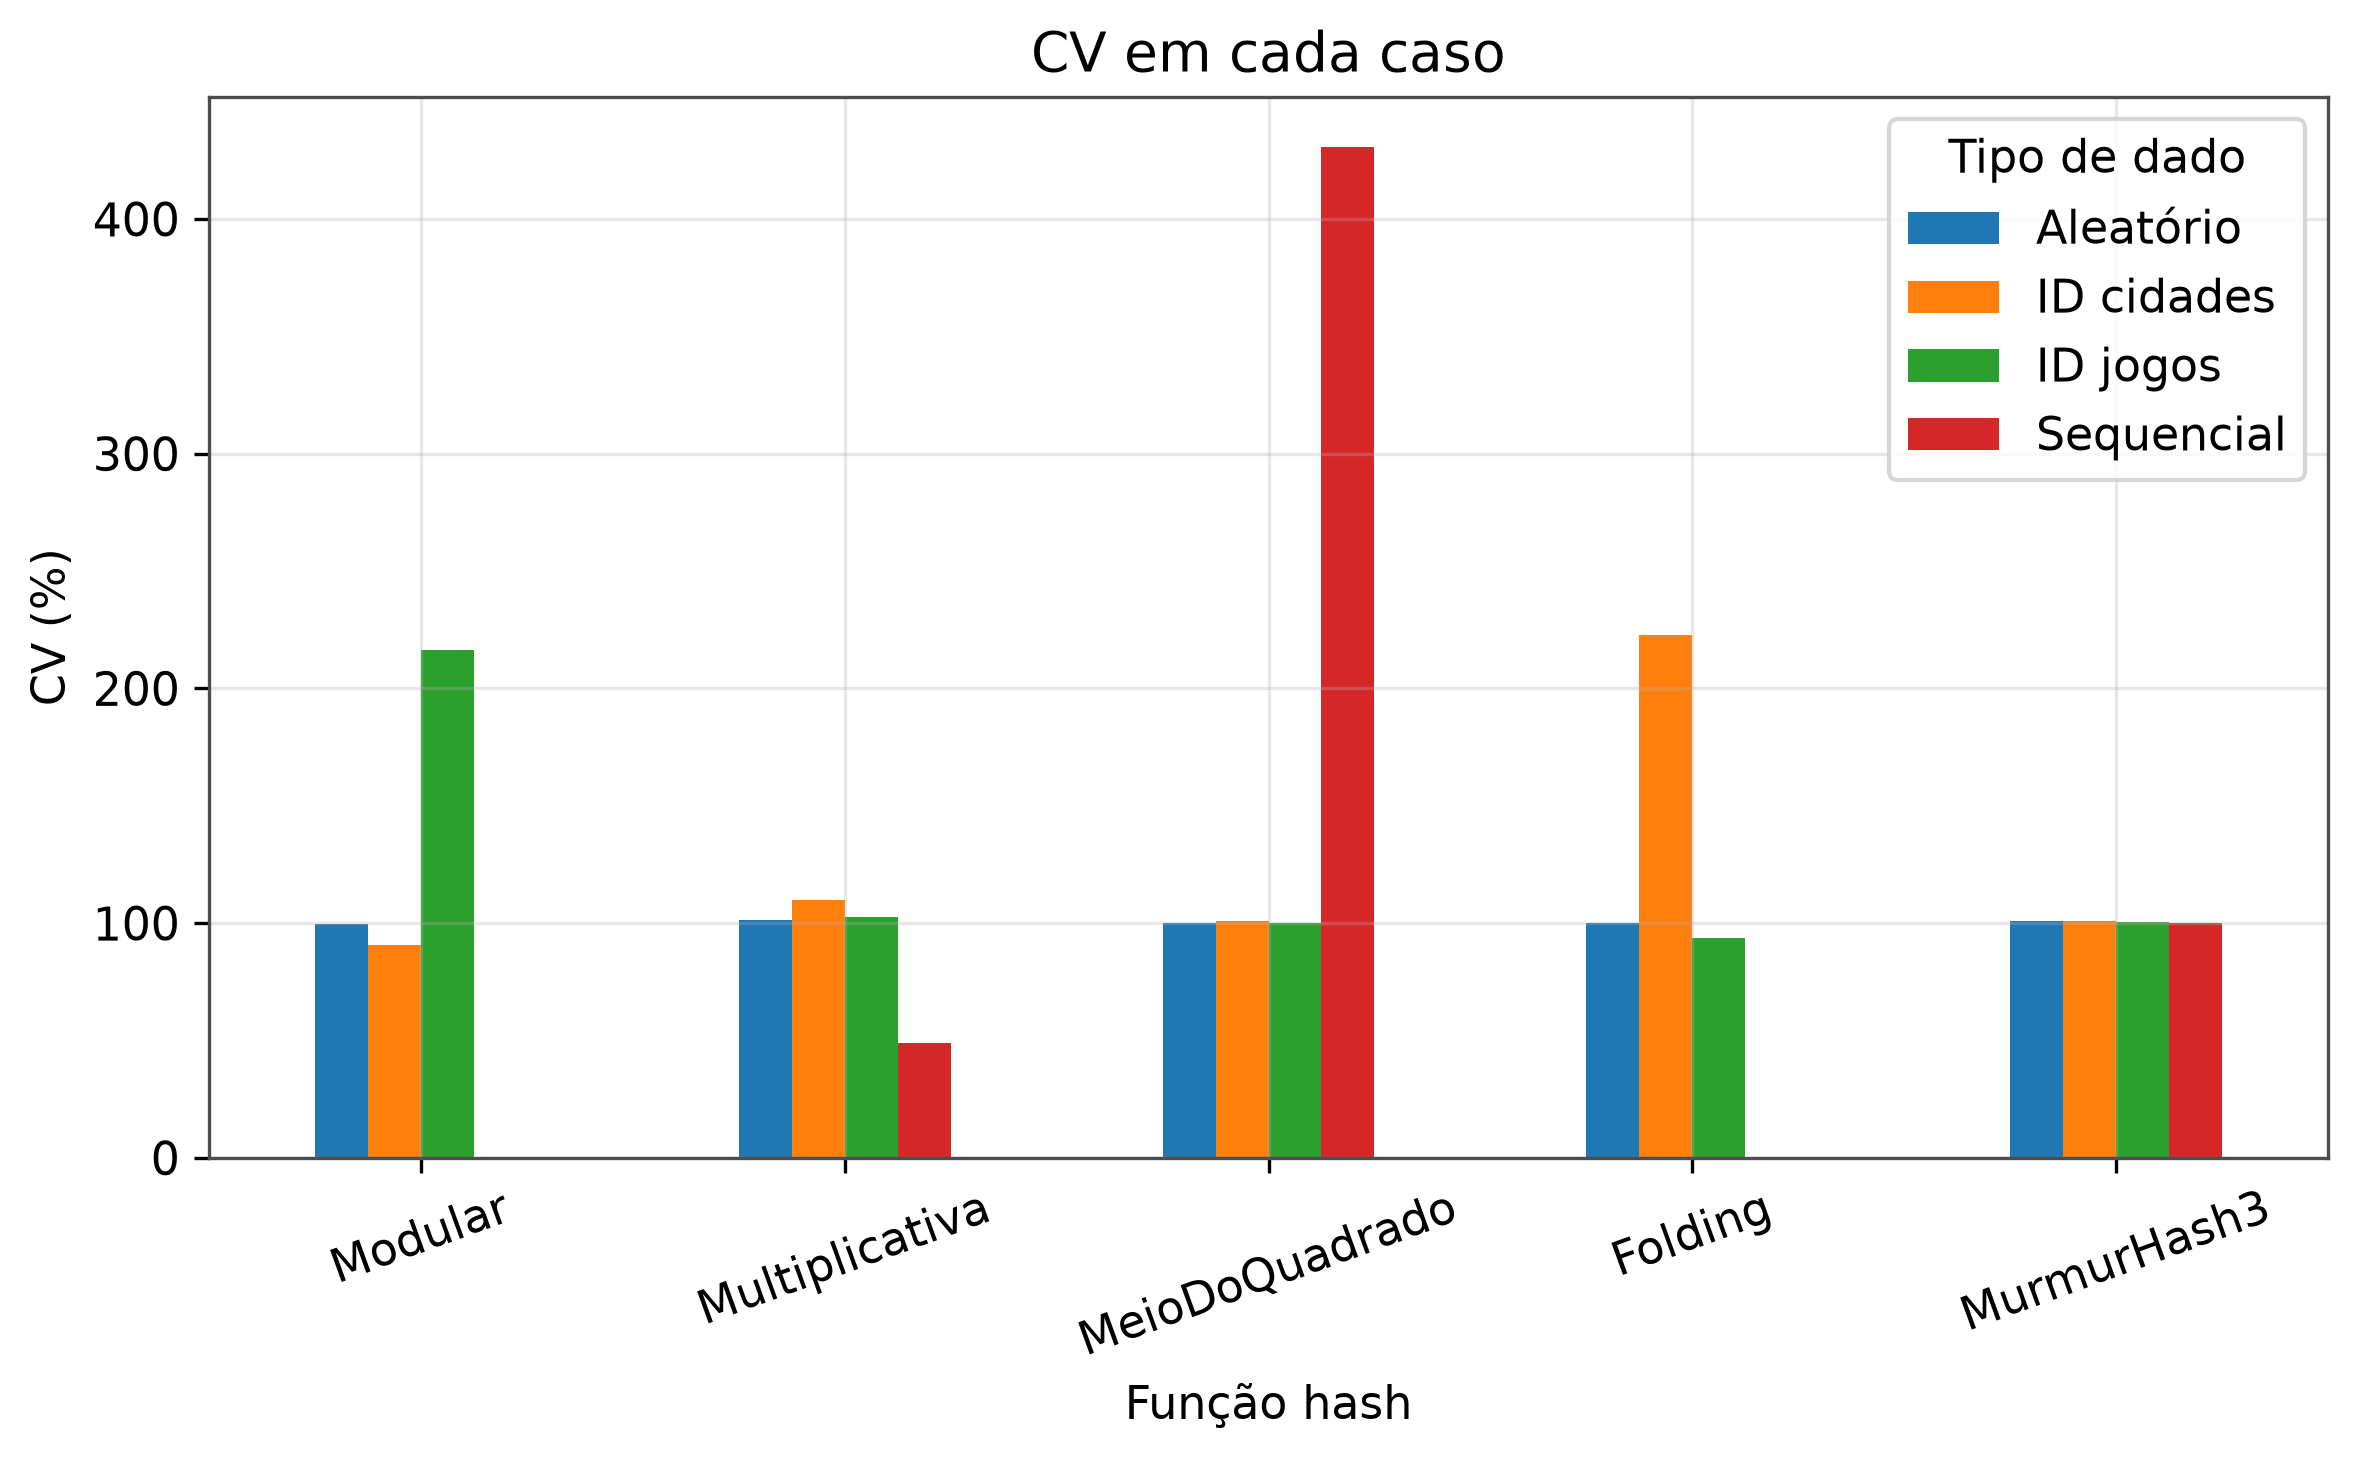
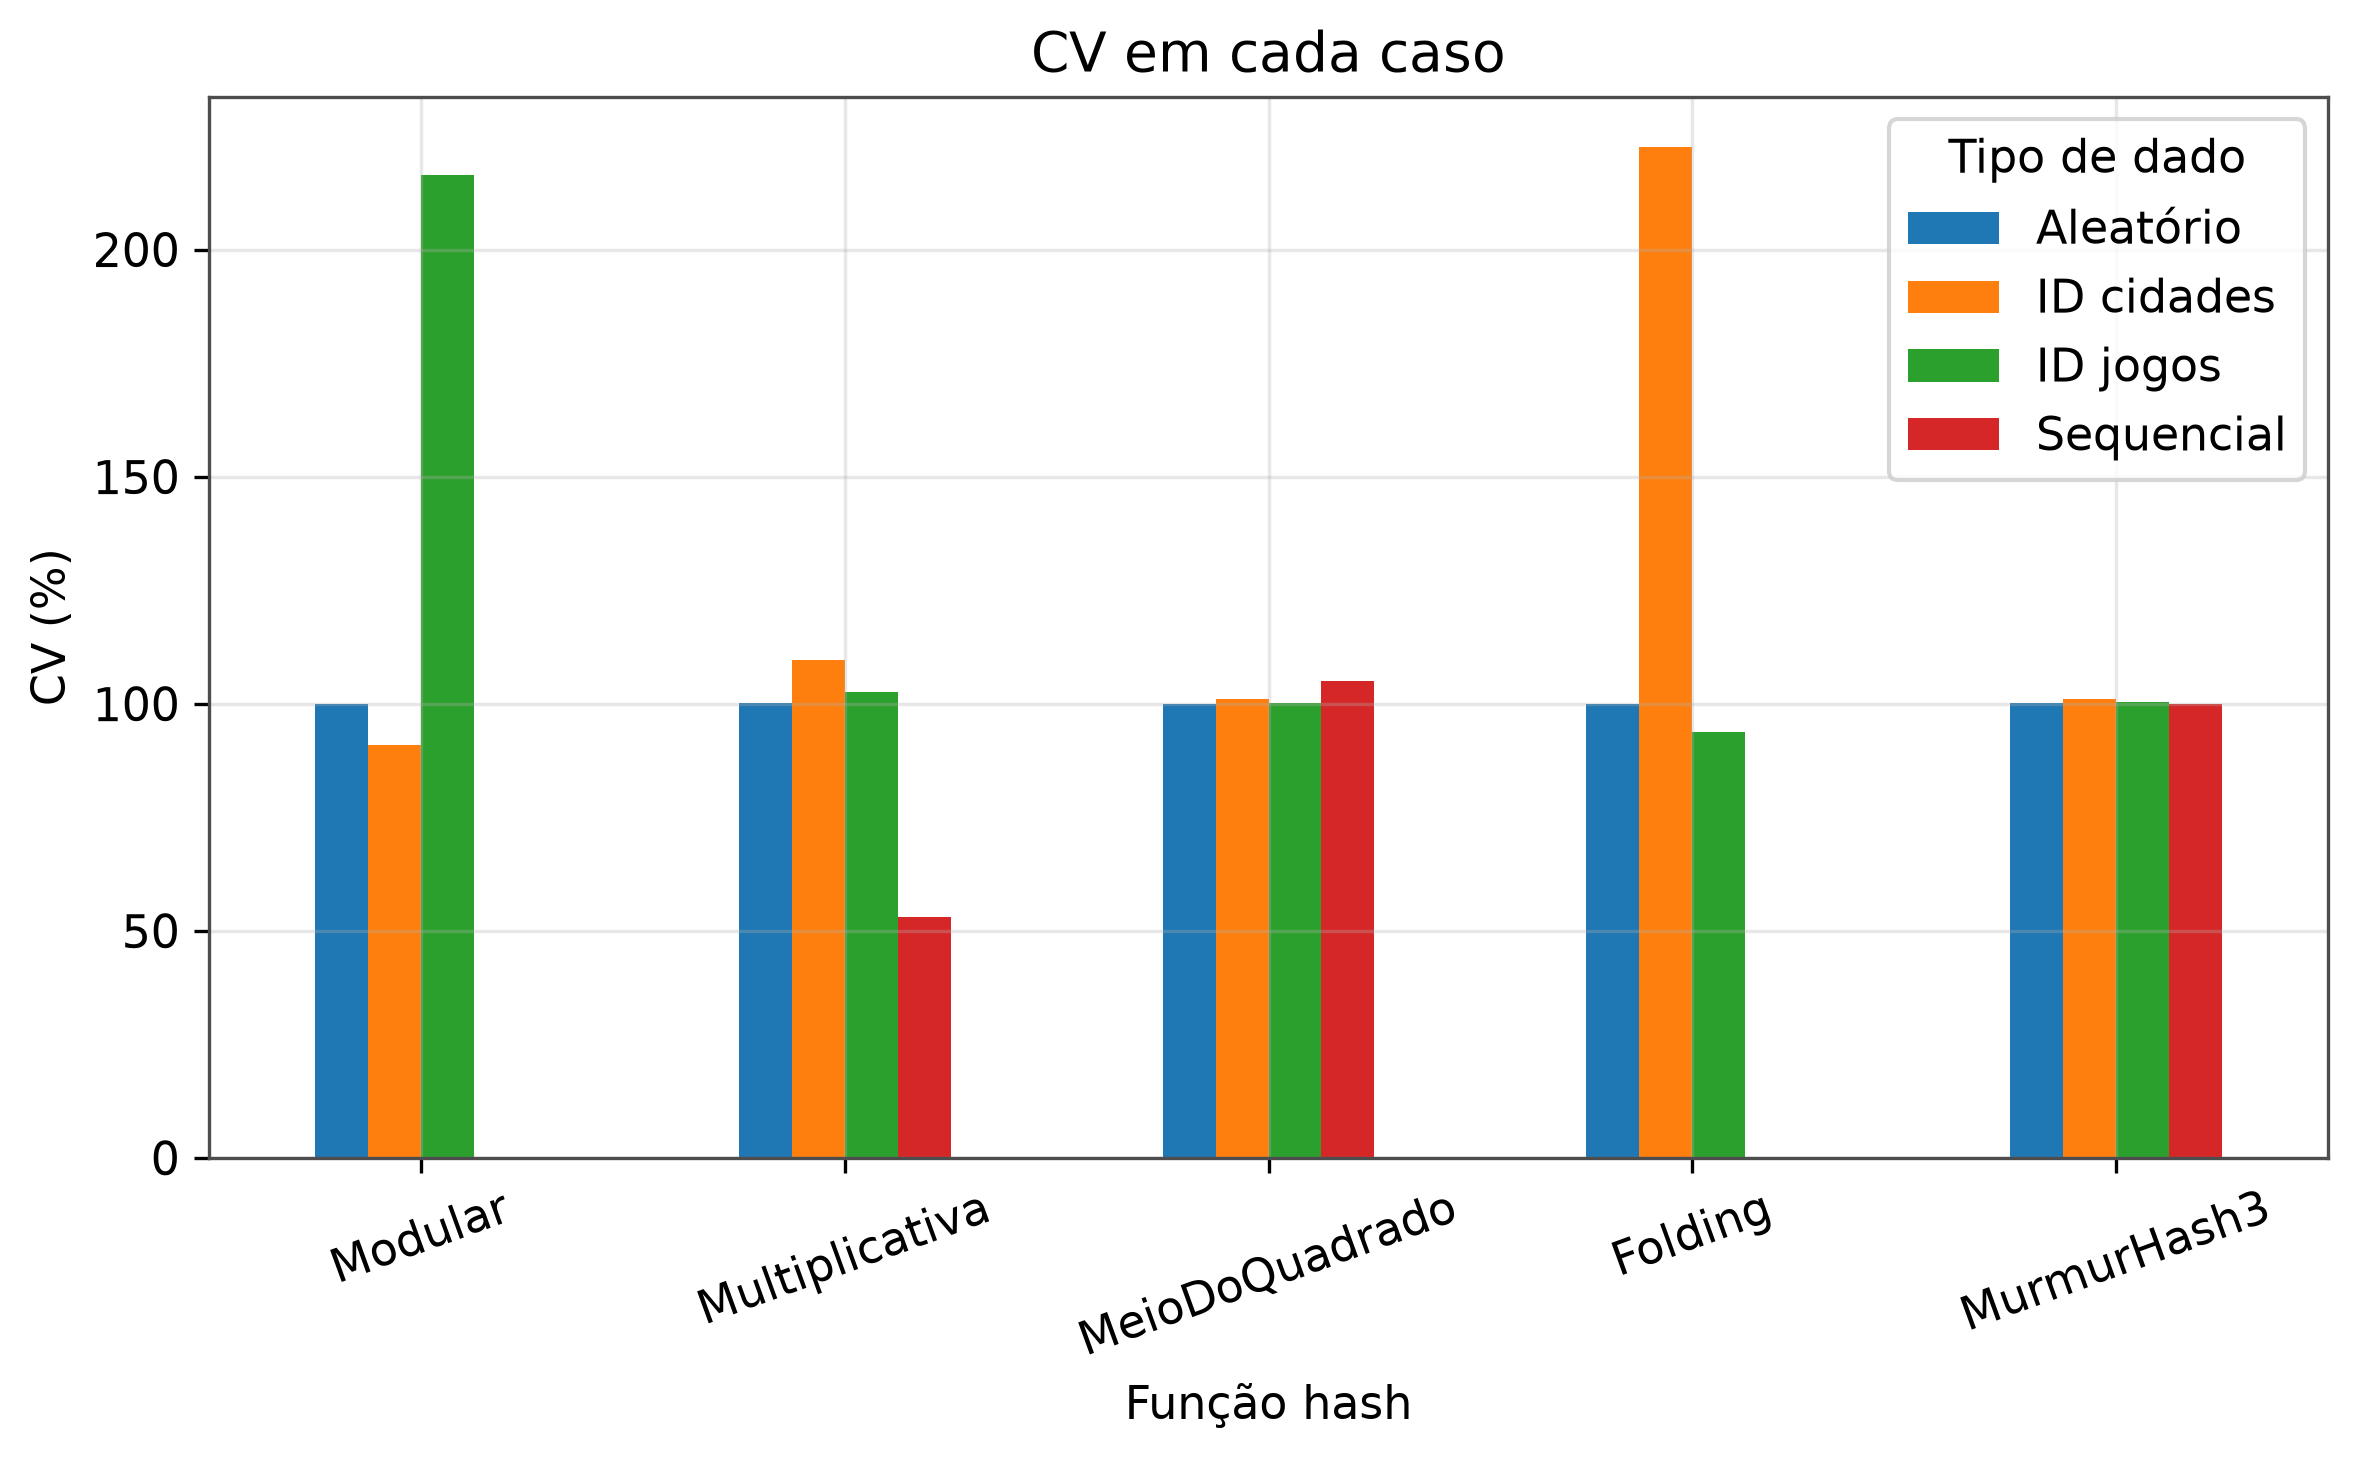
change image.png

diff --git a/src/main/scripts/plot_resultados.py b/src/main/scripts/plot_resultados.py
@@ -172,7 +172,8 @@ def figura_comparacaoCV(df):
     Returns:
         None. A figura gerada é salva em disco e a função não retorna valor.
     """
-    agrupado = df.groupby(["Funcao", "Tipo"], observed=True)["CV"].mean().unstack() * 100
+    df_filtrado = df[(~df["Tipo"].isin(["Sequencial", "Aleatório"])) |(df["N"] == 1_000_000)]
+    agrupado = df_filtrado.groupby(["Funcao", "Tipo"],   observed=True)["CV"].mean().unstack() * 100
     agrupado = agrupado.reindex([f for f in ORDEM_FUNCOES if f in agrupado.index])
     agrupado.plot(kind="bar", figsize=(8, 5), color=None)
     plt.ylabel("CV (%)")
@@ -186,7 +187,8 @@ def figura_comparacaoCV(df):
     
 # Figura 3: Media Cadeia, casos.
 def figura_comparacaoMediaCadeia(df):
-    agrupado = df.groupby(["Funcao", "Tipo"], observed=True)["MediaCadeia"].mean().unstack()
+    df_filtrado = df[(~df["Tipo"].isin(["Sequencial", "Aleatório"])) |(df["N"] == 1_000_000)]
+    agrupado = df_filtrado.groupby(["Funcao", "Tipo"], observed=True)["MediaCadeia"].mean().unstack()
     agrupado = agrupado.reindex([f for f in ORDEM_FUNCOES if f in agrupado.index])
     agrupado.plot(kind="bar", figsize=(8, 5), color=None)
     plt.ylabel("Elementos")
@@ -200,7 +202,8 @@ def figura_comparacaoMediaCadeia(df):
     
 # Figura 4: Maior Cadeia, casos.
 def figura_comparacaoMaiorCadeia(df):
-    agrupado = df.groupby(["Funcao", "Tipo"], observed=True)["MaiorCadeia"].mean().unstack()
+    df_filtrado = df[(~df["Tipo"].isin(["Sequencial", "Aleatório"])) |(df["N"] == 1_000_000)]
+    agrupado = df_filtrado.groupby(["Funcao", "Tipo"], observed=True)["MaiorCadeia"].mean().unstack()
     agrupado = agrupado.reindex([f for f in ORDEM_FUNCOES if f in agrupado.index])
     agrupado.plot(kind="bar", figsize=(8, 5), color=None)
     plt.ylabel("Elementos")
